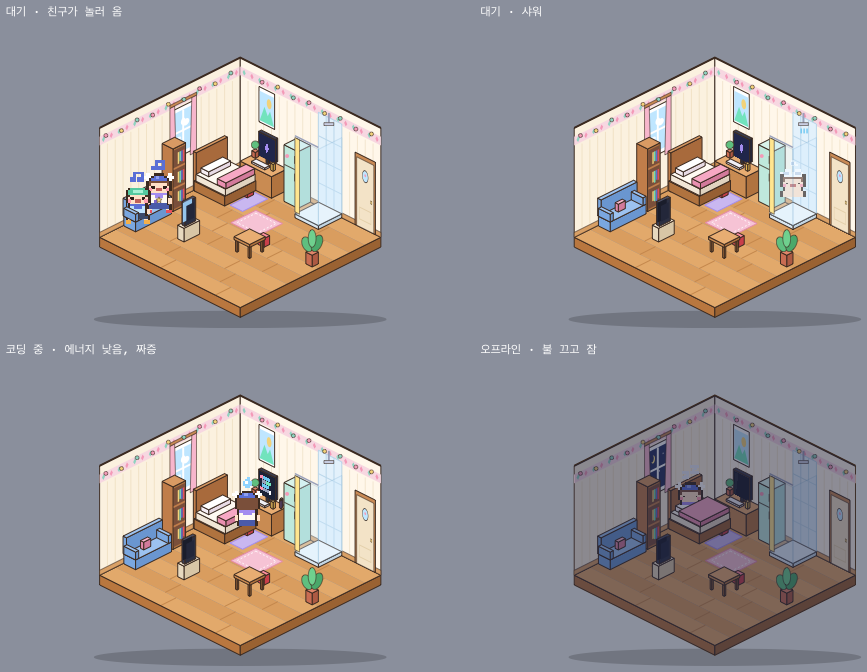
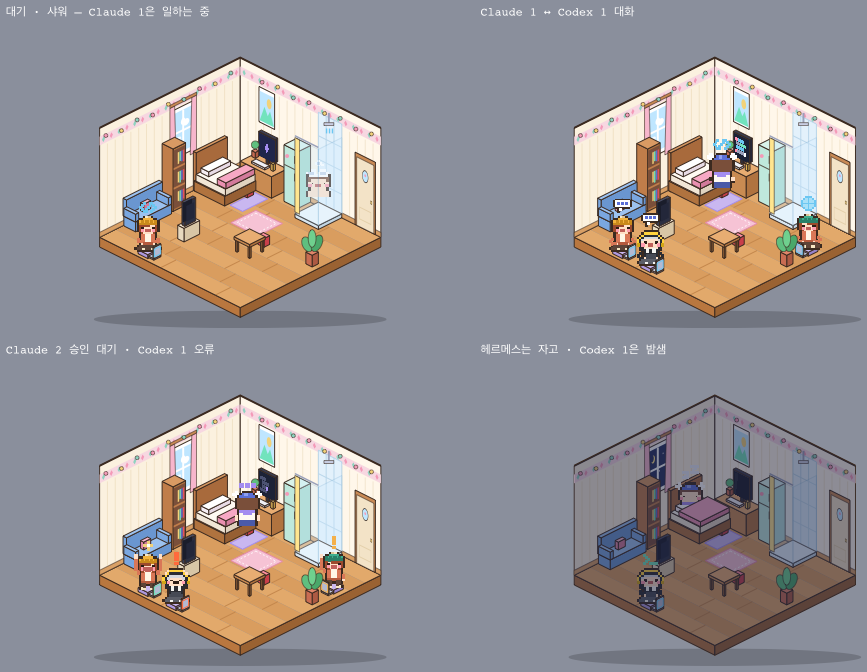
docs: session friends and live Claude Code — README, state, images (T71, T75)
- README: session friends, conversations, Claude Code connection
  (hooks:status/install/uninstall, what is and isn't sent), 보기
  자동/실제/데모; new hero and session-friends images rendered from the
  real MiniRoom markup
- PROJECT_STATE: M10/M11 done; verify 1388 tests + 21 Rust tests;
  native check — socket 0600 in a 0700 dir, and right after the
  consented hook install this Claude Code session walked into the room
  as Claude 1 (auto switched to the real room, no DEMO badge)
- TASKS: T71–T75 done

diff --git a/PROJECT_STATE.md b/PROJECT_STATE.md
@@ -4,14 +4,18 @@ _마지막 갱신: 2026-11-18_
 
 ## 현재 단계
 
-- **M0–M9 완료.** vertical slice, MVP 화면, 독립 리뷰 반영(T34), 생활감(M7: 에너지·화남·침대·하루 일과 데모),
+- **M0–M11 완료.** vertical slice, MVP 화면, 독립 리뷰 반영(T34), 생활감(M7: 에너지·화남·침대·하루 일과 데모),
   키우기(M8: 완료한 작업 = 경험치, 아기→어린이→어른, 방 꾸미기 해금, 이름·쓰다듬기·간식)가 동작한다.
 - **M9 미니룸(ADR-019~021):** 어두운 작업실을 밝은 아이소메트릭 픽셀 미니룸으로 교체했다. 헤르메스가 방을 걸어 다니며 대기 중 일상(샤워·밥·TV·책·창밖·스트레칭·물주기·낮잠·친구 초대)을 살고,
   에이전트 상태가 필수 행동을 정한다(작업 → 책상, 승인 대기 → 방 앞에서 손 흔들기, 위임 → 친구 도우미, 오프라인 → 불 끄고 잠). 일상은 펫의 생활이며 에이전트에 대한 주장이 아니다(ADR-020).
   창은 기본이 바탕화면에 박힌 항상 아래·Dock 없음·480×340이고 "위에 띄우기"로 바꾼다(ADR-021).
   T64에서 독립 코드 리뷰(HIGH 1: 빠른 도구 전환 때 책상에 못 가고 맴돎 → 수정)와 장면별 시각 QA(가림·배지·포스터·밤 가장자리 수정)를 반영했다.
-- 이벤트 규격은 v2(`usage.reported` 추가, ADR-016). 방 모양은 ADR-019가 ADR-017을 대체했다(이전 400×260 디오라마).
-- 실제 에이전트(Hermes 등)와는 아직 연결되지 않았다. 앱은 결정적 데모 소스로만 동작하며 항상 DEMO 배지를 보인다.
+- **M10 세션 친구(ADR-022/023):** 세션마다 캐릭터 하나 — `hermes`·`demo`·`custom`은 집주인 헤르메스, `claude-code`·`codex` 세션은 세션마다 친구(번호·색으로 구분).
+  세션별 커서·사실·사용량(ADR-014 대체), 방석 4개, 들어오기/나가기, 자기 상태만 표시, `session.message`로 실제 대화(말풍선) 또는 편지, 패널 세션 목록·알림 줄, 데모 "방 친구들". 동네 친구·친구 초대는 없앴다.
+- **M11 Claude Code 실제 연결(ADR-024):** 훅 스크립트 → Unix 소켓(0600) → Rust 엄격 검증 → Tauri 이벤트 → TS 번역 → 재정규화. 보기 자동/실제/데모.
+  사용자 동의를 받아 2026-11-19 훅 설치(백업 `~/.claude/settings.json.deskling-backup-20261119-011220`, 기존 훅 핸들러 34개 그대로). 제거는 `npm run hooks:uninstall`.
+- 이벤트 규격은 v3(v2 `usage.reported`, v3 `claude-code`·`codex` 종류와 `session.message`). 방 모양은 ADR-019가 ADR-017을 대체했다(이전 400×260 디오라마).
+- Hermes·Codex와는 아직 실제로 연결되지 않았다(데모로 표현). 데모가 보이는 동안에는 항상 DEMO 배지를 보인다.
 
 ## 환경 (2026-11-18 확인)
 
@@ -27,12 +31,15 @@ _마지막 갱신: 2026-11-18_
 
 | 명령 | 결과 |
 | --- | --- |
-| `npm run verify` (Node 24) | 통과 — typecheck, lint(경고 0), **763 tests / 29 files**, vite build, cargo fmt·clippy(`-D warnings`)·test (M9 완료 시점, 2026-11-19) |
+| `npm run verify` (Node 24) | 통과 — typecheck, lint(경고 0), **1388 tests / 38 files**, vite build, cargo fmt·clippy(`-D warnings`)·**test 21개** (M11 완료 시점, 2026-11-19) |
 | `npm run verify:fast` (Node 23.11) | 통과 — 334 tests (T34 이전 시점). Node 23은 EBADENGINE 경고만 남 |
 | `npm run build:app` | 통과 — `src-tauri/target/release/bundle/macos/Deskling.app` (9.7 MiB, arm64, 번들 ad-hoc 서명 + hardened runtime, `codesign --verify --deep --strict` 통과, M9 실행·렌더링·바탕화면 층 확인, 2026-11-19) |
 | `npm run tauri dev` | 실행됨 — 투명 창, layer 5(항상 위), M6 시점 11개 상태 네이티브 캡처, M7은 DOM 프로브 |
 
 ### 네이티브 확인 내역
+
+- **M11 (release 번들 + 실제 Claude Code):** 앱 데이터 폴더 0700, 소켓 `agent-events.sock` 0600 생성. 훅 설치 직후 **이 개발 세션(Claude Code) 자신이 Claude 1 친구로 방에 들어와**
+  방석에서 노트북으로 일하는 것을 창 캡처로 확인 — 자동 모드가 실제 방으로 바뀌어 DEMO 배지 없음, 헤르메스는 미연결이라 불 끄고 잠. 창 layer −1, UIElement.
 
 - **M9 (release 번들):** 창 layer −1(바탕화면 층, 다른 창 아래) + onscreen, 프로세스 type `UIElement`(Dock·⌘Tab 없음).
   데모 투어 동안 창 캡처 9장: 말풍선은 항상 실제 상태, 헤르메스는 상태별 자리로 걸어감(오프라인 → 밤 + 침대, 승인 대기 → 방 앞 + 호박색 !, 위임 → 친구 도우미).

diff --git a/docs/TASKS.md b/docs/TASKS.md
@@ -121,14 +121,14 @@
 - [x] **T68** core: 생활 엔진의 세션 친구 — 손님 자리 4개, 들어오기/나가기, 자기 상태, 대화(돌아보기·편지), 동네 친구·초대 제거 — FR-MS2, FR-MS3, FR-MS5, FR-R4
 - [x] **T69** ui: Claude·Codex 친구 원본 스프라이트(세션 번호별 색), 말풍선·편지 이모트 — FR-MS1, FR-MS5
 - [x] **T70** ui/app: 미니룸에 친구들, 패널 세션 목록·알림 줄, 친구 초대 버튼 제거, 데모 "방 친구들" — FR-MS2, FR-MS3, FR-MS6, FR-MS7
-- [ ] **T71** 화면 검증·문서·verify·build·push
+- [x] **T71** 화면 검증·문서·verify·build·push
 
 ## M11 Claude Code 실제 연결 (ADR-024)
 
 - [x] **T72** 훅 스크립트 `integrations/claude-code/deskling-hook.mjs` + 매핑 문서 — FR-CC1
 - [x] **T73** Rust 소켓 브리지 + capability(이벤트 수신) — FR-CC2
-- [ ] **T74** TS adapter `src/adapters/claudeCode/` + platform 수신 + 실제/데모 전환 — FR-CC3, FR-CC4, FR-CC6
-- [ ] **T75** 설치/제거 스크립트(백업), 사용자 동의 후 설치, 실제 세션으로 네이티브 검증 — FR-CC5
+- [x] **T74** TS adapter `src/adapters/claudeCode/` + platform 수신 + 실제/데모 전환 — FR-CC3, FR-CC4, FR-CC6
+- [x] **T75** 설치/제거 스크립트(백업), 사용자 동의 후 설치, 실제 세션으로 네이티브 검증 — FR-CC5
 
 ## 백로그 (vertical slice 이후, 각각 ADR 먼저)
 
